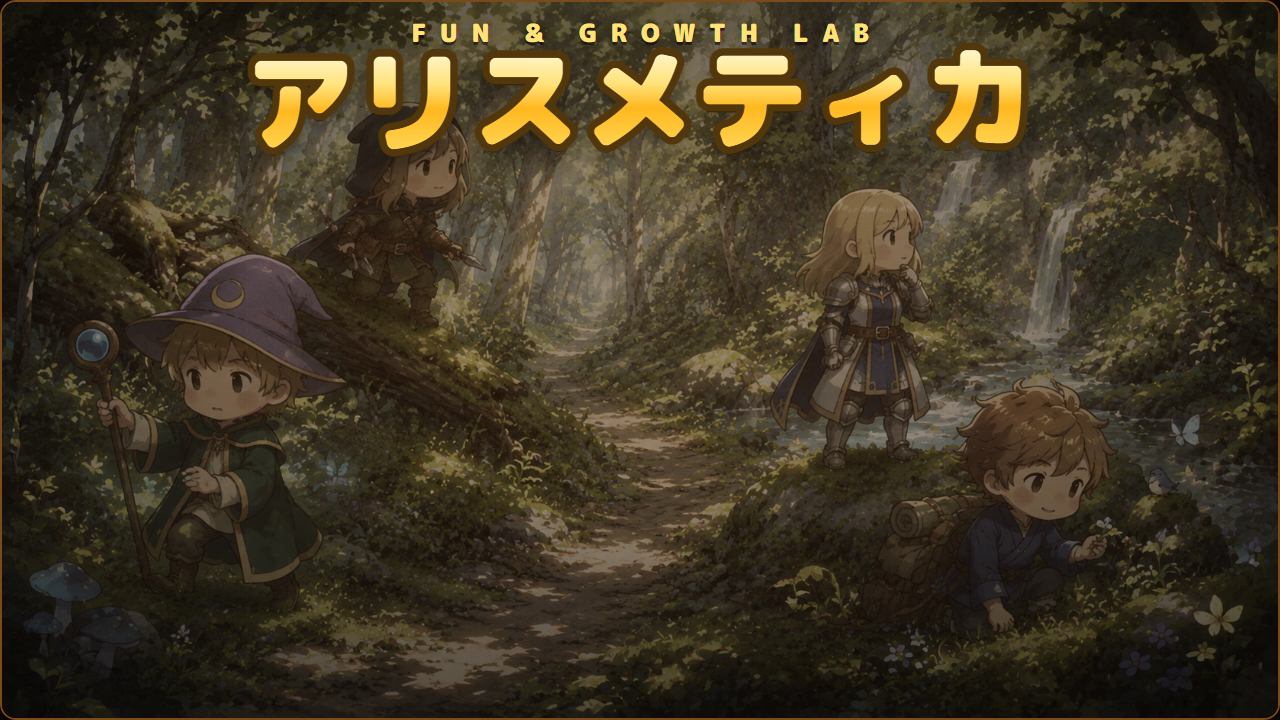
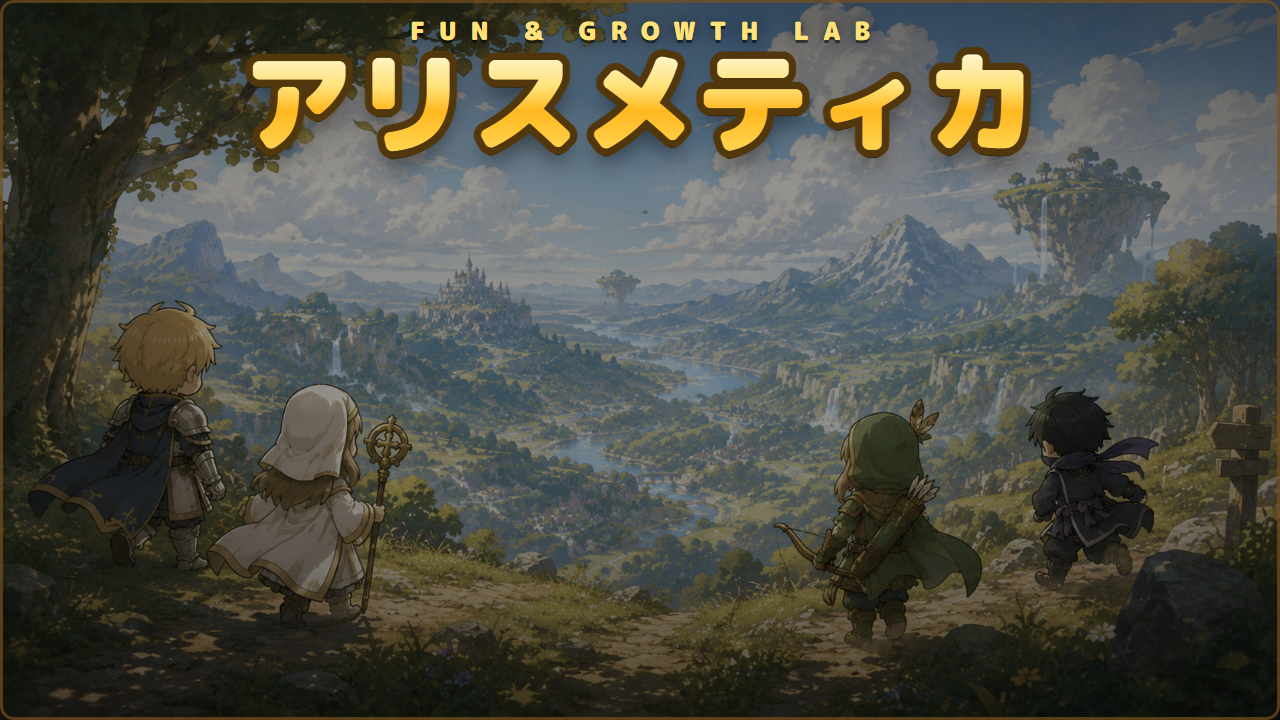
INDEX: ぶんすうスロットのサムネを今のタイトルに差し替え。アリスメティカの背景を title_4.png に固定(ゲーム内のタイトル背景とINDEXサムネ)

diff --git a/index.html b/index.html
@@ -1169,7 +1169,7 @@
                 <span class="mini-tag" data-i18n="tag_gr2">2年生〜</span>
             </div>
             <a href="Arithmetica/index.html" class="media-container">
-                <img src="images/Arithmetica.png?v=20261180" alt="アリスメティカ">
+                <img src="images/Arithmetica.png?v=20261414" alt="アリスメティカ">
             </a>
             <div class="start-btn-area">
                 <a href="Arithmetica/index.html" class="play-btn">ゲームスタート ▶</a>
@@ -1385,7 +1385,7 @@
                 <span class="mini-tag" data-i18n="tag_card">カード</span>
                 <span class="mini-tag" data-i18n="tag_gr3">3年生〜</span>            </div>
             <a href="Math_Braves_fraction/Math_Braves_fraction.html" class="media-container">
-                <img src="images/Math_Braves_fraction.png?v=20261180" alt="ぶんすうスロット">
+                <img src="images/Math_Braves_fraction.png?v=20261414" alt="ぶんすうスロット">
             </a>
             <div class="start-btn-area">
                 <a href="Math_Braves_fraction/Math_Braves_fraction.html" class="play-btn">ゲームスタート ▶</a>

diff --git a/Arithmetica/index.html b/Arithmetica/index.html
@@ -5826,12 +5826,11 @@ if (window.visualViewport) window.visualViewport.addEventListener('resize', scal
 })();
 
 // ============================================================
-// TITLE BG IMAGE — random pick from title_1.png … title_10.png
+// TITLE BG IMAGE — title_4.png に固定(以前は title_1〜10 からランダムだった)
 // ============================================================
 (function pickRandomTitleBg(){
-    const total = 10;
-    const base  = 'images/';
-    const candidates = Array.from({length:total}, (_,i)=>`${base}title_${i+1}.png`);
+    const candidates = ['images/title_4.png'];
+    const total = candidates.length;
     const available = [];
     let checked = 0;
 
